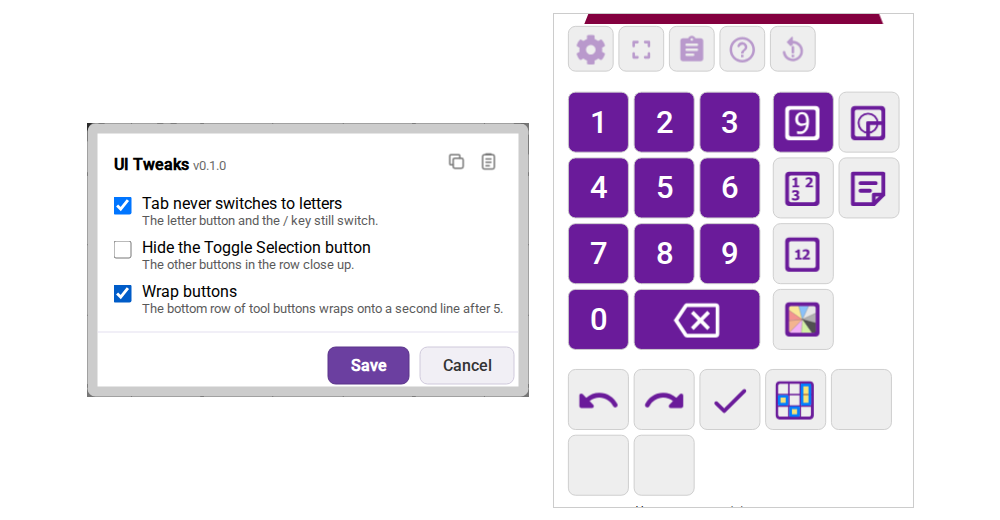
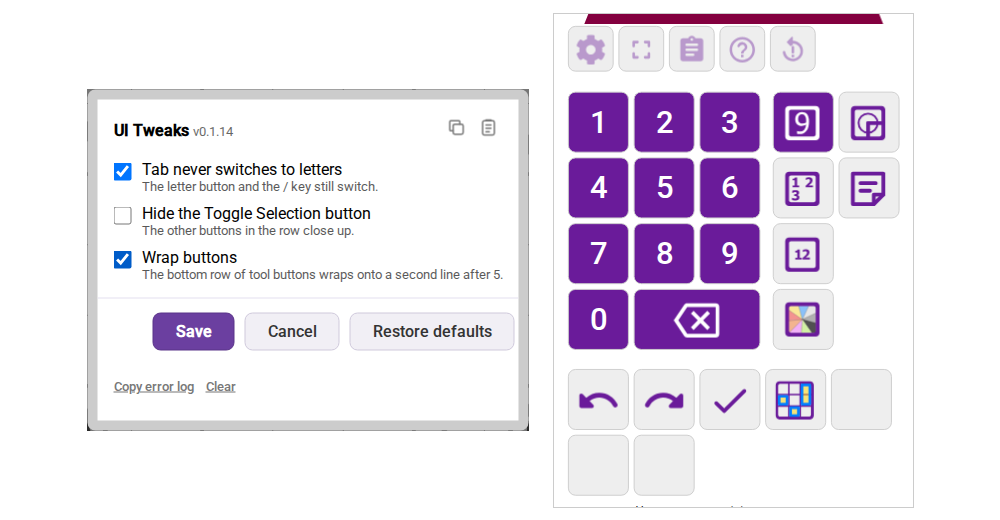
Restore defaults in UI Tweaks, Dark Page and Color by Digit dialogs (#809)
* Restore defaults in UI Tweaks, Dark Page and Color by Digit dialogs

Draft in each, so Cancel undoes it; Dark Page's Black button is replaced; Color by Digit asks first.

Closes #799

* Restore defaults review fixes: observable no-ask check, reuse preloadedState, reset the pulldowns' picks under test, README lines

Closes #799

---------

Changed region(s): [[0.062, 0.3077, 0.527, 0.8308], [0.062, 0.1538, 0.527, 0.3385]]

diff --git a/color-by-digit.user.js b/color-by-digit.user.js
@@ -1,7 +1,7 @@
 // ==UserScript==
 // @name         SudokuPad Color by Digit
 // @namespace    https://github.com/caneff/sudokupad-scripts
-// @version      0.25.39
+// @version      0.25.40
 // @description  Colors cells, or the digits and marks in them, by digit, with colors you give to groups of digits, and keeps the colors in step as you solve.
 // @match        https://sudokupad.app/*
 // @match        https://*.sudokupad.app/*
@@ -17,7 +17,7 @@
   'use strict'
 
   // GM_info is absent without Tampermonkey, so the script cannot read @version; keep this equal to it.
-  const VERSION = '0.25.39'
+  const VERSION = '0.25.40'
   // The groups saved before profiles existed. Read when no profiles are saved; never written or removed.
   const LEGACY_GROUPS_KEY = 'ColorByDigit_groups'
   // The profiles: { profiles: [{ name, groups }], active: index, digitActive?: index, useDigitColors?: false }.
@@ -288,6 +288,8 @@
   }
 
   const preloadProfiles = () => Object.keys(PRELOADS).map((name) => ({ name, groups: cloneGroups(PRELOADS[name]) }))
+  // The profiles of an install with nothing saved.
+  const preloadedState = () => makeState(preloadProfiles(), 0, undefined, true)
 
   const stateFromStored = (store) => load(store, { key: PROFILES_KEY, read: readProfiles }).value ?? stateFromLegacy(store.getData(LEGACY_GROUPS_KEY))
 
@@ -296,7 +298,7 @@
   function stateFromLegacy (legacyGroups) {
     const preloads = preloadProfiles()
     const legacy = normalizeGroups(legacyGroups)
-    if (!legacy) return { profiles: preloads, active: 0 }
+    if (!legacy) return preloadedState()
     const equal = preloads.findIndex((profile) => sameGroups(profile.groups, legacy))
     if (equal >= 0) return { profiles: preloads, active: equal }
     return { profiles: [{ name: CUSTOM_NAME, groups: legacy }, ...preloads], active: 0 }
@@ -1393,6 +1395,10 @@
       case 'brush': return { ...draft, brush: event.key }
       case 'page': return { ...draft, page: event.page }
       case 'clear': return withGroups([])
+      case 'restore': {
+        const preloaded = preloadedState()
+        return JSON.stringify(state) === JSON.stringify(preloaded) ? draft : showingProfile(draft, preloaded, 0)
+      }
       case 'press': return draft.paintKey === undefined ? draft : { ...draft, paintKey: undefined }
       case 'paint': {
         if (brush === null) return draft
@@ -2761,9 +2767,16 @@
           edit({ type: 'paste', ...(PROFILES_KEY in values ? { state: savedState } : {}), ...(MODE_KEY in values ? { mode: values[MODE_KEY] } : {}) })
           draw()
         }
-      }
+      },
+      extraButtons: [{ content: 'Restore defaults', role: 'restore', handler: () => restoreDefaults() }]
     })
     if (!box) return
+    // The draft takes the preloaded profiles, and Save or Cancel decides. Profiles of the user's own are lost on Save, so a draft that holds any asks first.
+    const restoreDefaults = () => {
+      if (JSON.stringify(draft.state.profiles) !== JSON.stringify(preloadedState().profiles) && !window.confirm('Restore the preloaded profiles? Your own profiles and edits are removed when you Save.')) return
+      edit({ type: 'restore' })
+      draw()
+    }
     const draw = () => {
       const { state, mode: draftMode, selected, pages, page, brush } = draft
       box.innerHTML = renderEditor({ groups: state.profiles[selected].groups, pages, page, brush, pulldownsHtml: renderPulldowns(state, draftMode), profilesHtml: renderProfiles(state, readColor, selected), unreadable })

diff --git a/dark-page.user.js b/dark-page.user.js
@@ -1,7 +1,7 @@
 // ==UserScript==
 // @name         SudokuPad Dark Page
 // @namespace    https://github.com/caneff/sudokupad-scripts
-// @version      0.7.16
+// @version      0.7.17
 // @description  Makes the page black around the puzzle, or another color chosen in a settings dialog, with dark control buttons on a dark page. Puzzle colors stay as intended, unlike SudokuPad's dark mode.
 // @match        https://sudokupad.app/*
 // @match        https://*.sudokupad.app/*
@@ -17,7 +17,7 @@
   'use strict'
 
   // GM_info is absent without Tampermonkey, so the script cannot read @version; keep this equal to it.
-  const VERSION = '0.7.16'
+  const VERSION = '0.7.17'
   const STYLE_ID = 'dark-page-style'
   const BOARD_ID = 'svgrenderer'
   // The page color and every other rule apply only while a board is on the page; a page with none keeps its own colors.
@@ -933,12 +933,11 @@
           picked = pageColor
           input.value = picked
         }
-      }
+      },
+      extraButtons: [{ content: 'Restore defaults', role: 'restore', handler: () => restoreDefaults() }]
     })
     if (!body) return
-    body.innerHTML = '<div style="margin:6px 0;display:flex;align-items:center;gap:8px">' +
-      `<input type="color" id="dark-page-input" value="${picked}">` +
-      '<button type="button" id="dark-page-reset">Black</button></div>'
+    body.innerHTML = `<div style="margin:6px 0"><input type="color" id="dark-page-input" value="${picked}"></div>`
     const input = document.getElementById('dark-page-input')
     const preview = () => { style.textContent = buildCss(picked) }
     // However the dialog closes (Save, Cancel, Escape), the page goes back to the saved color; a Save has already made it the saved one.
@@ -948,16 +947,14 @@
       style.textContent = buildCss(pageColor)
     })
     closed.observe(document.body, { childList: true, subtree: true })
-    const reset = document.getElementById('dark-page-reset')
     // `input` fires while the picker moves.
     input.addEventListener('input', () => { picked = input.value.toLowerCase(); preview() })
-    reset.addEventListener('click', (event) => {
-      event.preventDefault()
-      event.stopPropagation()
+    // The draft takes the default and the page previews it, and Save or Cancel decides.
+    function restoreDefaults () {
       picked = DEFAULT_COLOR
       input.value = DEFAULT_COLOR
       preview()
-    })
+    }
   }
 
   // At DOMContentLoaded Framework exists (before the app is ready). What it reads is the saved color, and the early

diff --git a/site/index.html b/site/index.html
@@ -152,7 +152,7 @@
     </div>
     <div class="row-text">
       <h2>Dark Page</h2>
-      <p>Turns the page black around the puzzle, or any color you pick, and darkens the control buttons when the color is dark. The text under the puzzle stays readable on any color. Puzzle colors stay as intended, unlike SudokuPad's dark mode.</p>
+      <p>Turns the page black around the puzzle, or any color you pick, and darkens the control buttons when the color is dark. The text under the puzzle stays readable on any color. Puzzle colors stay as intended, unlike SudokuPad's dark mode. Restore defaults in its settings dialog goes back to black.</p>
       <p class="actions"><a class="install" href="https://raw.githubusercontent.com/caneff/sudokupad-scripts/main/dark-page.user.js">Install<span class="visually-hidden"> Dark Page</span></a></p>
     </div>
   </section>
@@ -168,11 +168,11 @@
   </section>
   <section class="row">
     <div>
-      <div class="slide-frame"><img src="https://raw.githubusercontent.com/caneff/sudokupad-scripts/main/docs/research/ui-tweaks/ui-tweaks.png?v=f621fab" alt="The UI Tweaks settings dialog with its three options, beside SudokuPad's controls with the bottom row of buttons wrapped onto a second line after five" width="1000" height="520"></div>
+      <div class="slide-frame"><img src="https://raw.githubusercontent.com/caneff/sudokupad-scripts/main/docs/research/ui-tweaks/ui-tweaks.png?v=5645296" alt="The UI Tweaks settings dialog with its three options, beside SudokuPad's controls with the bottom row of buttons wrapped onto a second line after five" width="1000" height="520"></div>
     </div>
     <div class="row-text">
       <h2>UI Tweaks</h2>
-      <p>Small changes to SudokuPad's buttons, each switched on or off in a settings dialog that opens from SudokuPad's settings.</p>
+      <p>Small changes to SudokuPad's buttons, each switched on or off in a settings dialog that opens from SudokuPad's settings. Restore defaults there puts the choices back to how they start.</p>
       <ul>
         <li><b>Tab never switches to letters</b> (on at first): a stray Tab no longer switches the number pad to letters. The letter button and the / key still do.</li>
         <li><b>Hide the Toggle Selection button</b> (off at first): takes the button out of the bottom row, and the other buttons close up.</li>

diff --git a/test/site.test.js b/test/site.test.js
@@ -445,7 +445,7 @@ test(`${CBD} lists what the script adds, one item per feature`, () => {
   assert.deepEqual(leadIns(grid[1]), CBD_LEAD_INS)
 })
 
-test(`${CBD} shows the settings dialog as one annotated picture whose alt text names every label, with its intro and its two notes`, () => {
+test(`${CBD} shows the settings dialog as one annotated picture whose alt text names every label, with its intro and its three notes`, () => {
   const m = read(CBD).match(/<h2>The settings dialog<\/h2>([\s\S]*?)<h2>/)
   assert.ok(m, `site/${CBD} has no <h2>The settings dialog</h2>`)
   const found = imgs(m[1])
@@ -455,7 +455,7 @@ test(`${CBD} shows the settings dialog as one annotated picture whose alt text n
   for (const label of ['Settings icons', 'Pulldowns', 'Selected profile', 'Profile list', 'Palette and digits', 'Bottom row']) {
     assert.ok(alt.includes(label), `the picture's alt text does not name "${label}"`)
   }
-  assert.equal(plain(m[1]).trim(), 'Edit profiles, in the profile menu, opens it. A click on a digit already in the chosen color clears it. From the keyboard, Tab and the arrow keys move around the colors and the digit keys, and typing 0 to 9 paints that digit.')
+  assert.equal(plain(m[1]).trim(), 'Edit profiles, in the profile menu, opens it. A click on a digit already in the chosen color clears it. Restore defaults brings back the five preloaded profiles and the Cell and Digit pulldowns\' starting picks, after asking when it would remove your own profiles. Save keeps them and Cancel drops them. From the keyboard, Tab and the arrow keys move around the colors and the digit keys, and typing 0 to 9 paints that digit.')
 })
 
 test(`${CBD} good to know gives the undo behavior, the Multi-color caveat and where the button is`, () => {

diff --git a/site/color-by-digit.html b/site/color-by-digit.html
@@ -56,8 +56,9 @@
 
   <h2>The settings dialog</h2>
   <p class="prose">Edit profiles, in the profile menu, opens it.</p>
-  <div class="figure"><img src="https://raw.githubusercontent.com/caneff/sudokupad-scripts/main/docs/research/color-by-digit/color-by-digit-dialog-annotated.png?v=5e8d2ab" alt="The Color by Digit settings dialog with each part labelled on its left. Settings icons: copy or paste all settings. Pulldowns: mode, cell and digit profiles. Selected profile: rename it in its row. Profile list: click a profile to edit its colors. Palette and digits: click a color, then click or drag across digits to paint them. Bottom row: save or cancel the changes." width="966" height="514"></div>
+  <div class="figure"><img src="https://raw.githubusercontent.com/caneff/sudokupad-scripts/main/docs/research/color-by-digit/color-by-digit-dialog-annotated.png?v=69de5eb" alt="The Color by Digit settings dialog with each part labelled on its left. Settings icons: copy or paste all settings. Pulldowns: mode, cell and digit profiles. Selected profile: rename it in its row. Profile list: click a profile to edit its colors. Palette and digits: click a color, then click or drag across digits to paint them. Bottom row: save, cancel or restore the defaults." width="966" height="514"></div>
   <p class="prose">A click on a digit already in the chosen color clears it.</p>
+  <p class="prose">Restore defaults brings back the five preloaded profiles and the Cell and Digit pulldowns' starting picks, after asking when it would remove your own profiles. Save keeps them and Cancel drops them.</p>
   <p class="prose">From the keyboard, Tab and the arrow keys move around the colors and the digit keys, and typing 0 to 9 paints that digit.</p>
 
   <h2>Good to know</h2>

diff --git a/ui-tweaks.user.js b/ui-tweaks.user.js
@@ -1,7 +1,7 @@
 // ==UserScript==
 // @name         SudokuPad UI Tweaks
 // @namespace    https://github.com/caneff/sudokupad-scripts
-// @version      0.1.13
+// @version      0.1.14
 // @description  Small changes to SudokuPad's buttons, each switched on or off in a settings dialog: Tab never switches the number pad to letters, hide the Toggle Selection button, and wrap the bottom row of buttons after five.
 // @match        https://sudokupad.app/*
 // @match        https://*.sudokupad.app/*
@@ -20,7 +20,7 @@
   'use strict'
 
   // GM_info is absent without Tampermonkey, so the script cannot read @version; keep this equal to it.
-  const VERSION = '0.1.13'
+  const VERSION = '0.1.14'
   const STYLE_ID = 'ui-tweaks-style'
   // Each option's saved boolean is kept under its own key, which is also its name in Copy settings.
   const OPTIONS = [
@@ -834,9 +834,15 @@
             box(option.id).checked = next[option.id]
           })
         }
-      }
+      },
+      extraButtons: [{ content: 'Restore defaults', role: 'restore', handler: () => restoreDefaults() }]
     })
     if (!body) return
+    // The draft takes the defaults, and Save or Cancel decides.
+    const restoreDefaults = () => OPTIONS.forEach((option) => {
+      draft[option.id] = DEFAULT_OPTIONS[option.id]
+      box(option.id).checked = draft[option.id]
+    })
     body.innerHTML = OPTIONS.map(optionRow).join('')
     const box = (id) => body.querySelector(`input[data-option="${id}"]`)
     OPTIONS.forEach((option) => {

diff --git a/test/color-by-digit.test.js b/test/color-by-digit.test.js
@@ -1981,6 +1981,16 @@ test('reduceDraft delete: the row goes and the selection stays on the same profi
   assert.equal(reduceDraft(one, { type: 'delete', index: 0 }), one)
 })
 
+test('reduceDraft restore: the draft holds the preloaded profiles and the pulldowns\' starting picks with the first profile selected, the mode kept, and a draft already there is the same draft', () => {
+  const own = { ...dialogState(), digitActive: 1, useDigitColors: false }
+  const restored = run(opened(own, 'both'), { type: 'restore' })
+  assert.deepEqual(restored.state.profiles.map((p) => p.name), ['Low/5/High', 'Odd/Even', 'Entropic', 'Modular', 'Each digit'])
+  assert.deepEqual(restored.state.profiles.map((p) => p.groups), Object.values(PRELOADS))
+  assert.deepEqual({ selected: restored.selected, active: restored.state.active, digitActive: restored.state.digitActive, useDigitColors: usesDigitColors(restored.state), mode: restored.mode }, { selected: 0, active: 0, digitActive: undefined, useDigitColors: true, mode: 'both' })
+  assert.deepEqual(shownGroups(restored), PRELOADS['Low/5/High'])
+  assert.equal(reduceDraft(restored, { type: 'restore' }), restored)
+})
+
 test('reduceDraft move: a dragged row moves, the selection follows its profile, and a drop on its own place is the same draft', () => {
   const moved = run(opened(), { type: 'move', from: 0, to: 2 })
   assert.deepEqual(moved.state.profiles.map((p) => p.name), ['B', 'C', 'A'])

diff --git a/README.md b/README.md
@@ -35,6 +35,7 @@ In Cell mode, every cell holding a digit, and every empty cell whose center mark
 
 - **Profiles** are named lists of groups, one to six of them, with exactly one active. A fresh install has five preloads: Low/5/High (active), Odd/Even, Entropic (0-3, 4-6, 7-9), Modular (1/4/7, 2/5/8, 0/3/6/9) and Each digit (1 to 9 each on its own color, 0 in no group: 5 to 9 on their own keys of the first palette page, and 1 to 4 on purple, pink and brown from the second page and green from the third, so no digit's shade is black or grey like a given). An install with saved profiles gets Entropic and Modular added once, and Each digit once, each unless a profile already has the same groups or the six profiles are taken; delete one and it stays deleted. The button's icon shows the active profile as **chips**: a run of joined board cells, one per group color (the first three, so Each digit's is no wider than the others). The profile menu and the dialog's profile list show every profile as the same run, drawn as Cell mode draws it; the button draws it in the mode's look. Each cell carries the group's shown digit: with 0 left out, the lowest if every digit is below 5, the highest if every digit is above 5, else the middle (the lower middle on an even count), so Low/5/High shows 1, 5 and 9. A group of only 0 shows 0. With a separate digit profile the button's chips in Digit and Both can show other digits (see the Cell and Digit pulldowns). Groups you saved before profiles existed become the active profile: the preload they match, else a new first profile named Custom, with the five preloads beside it.
 - **The profile menu** opens from the arrow box on the button, a right click on it, or a hold on it. Pick a profile and it becomes active at once (with the Digit pulldown on a named profile, see below, each row instead ends in a Cell dot and a Digit dot, under the words Cell and Digit). In Cell and Both the old profile's group colors come off every cell and every cell that holds one group's digit (or has only that group's center marks) gets its new color, as one undo step; in Digit and Both the digits take their new shades. Edit profiles… opens the settings dialog, where you reorder profiles by dragging the handle, delete one with ×, and click a row to select it (a row's handle and × show while the pointer is over it, and always on the selected row): the selected row's name is a field you can rename it in (an empty box keeps the old name), and the right column edits its groups by painting. A page pulldown sits above one grid: the palette's swatches on the left and a pad of ten digit keys (1 to 9, 0 under 7) on the right, each digit key filled with its digit's color and blank when the digit is in no group. Click a swatch to make that color the brush (it starts as the color of the profile's lowest group), then click digit keys to paint them; a click on a digit already in the brush color clears it. You can also press on a digit and drag across others to paint them all, or start the drag on a digit already in the brush color to clear instead. A group is the digits that share a color, so a color with no digits is no group, and the groups run in order of their lowest digit, with 0 after 9. Clear all clears every digit. Groups saved with two entries in one color, which the old group editor allowed, are merged into one when the dialog opens. Selecting a row changes no color and sets no profile: the list is only for editing, and the three pulldowns at the top of the dialog do the picking. + New profile, under the list, adds a copy of the selected profile named after it with " copy", selects it and puts the cursor in its name; it is disabled at six profiles. Save applies every change at once; Cancel drops them.
+- **Restore defaults**, in the settings dialog's button row, brings back the five preloads and the Cell and Digit pulldowns' starting picks (the mode stays) as a draft that Cancel drops. It asks first when the profiles in the dialog include one of your own.
 - **The Cell and Digit pulldowns**, at the top of the settings dialog, pick the profile that colors the cells (Cell, the active profile) and the one that colors the digits (Digit). Digit starts on **Same as cell** on a fresh install and after an update: one profile colors cells and digits, and a menu pick moves both. Pick a profile by name in Digit and there are two picks from the one list, a cell profile for Cell and Both and a digit profile for Digit and Both, and the profile menu shows them as two columns of dots, Cell and Digit; a Cell dot recolors only the cells (one undo step), and a Digit dot only the digits. Picking a name in Digit while it says Same as cell starts the digit profile on the profile you pick; picking Same as cell again makes the digits take the cell profile. The button's chips show the cell profile's groups in Cell and Off and the digit profile's in Digit; in Both they show the digits that reach the most groups of the two profiles. Deleting the digit profile makes the digits follow the cell profile again (Same as cell).
 - **Digit: None** drops digit coloring altogether: a press steps Cell ↔ Off, the Mode pulldown offers only Cell and Off, the profile menu drops its Cell and Digit dots, and no digit is colored or circled. Picking None while the mode is Digit moves it to Off, in Both to Cell. Pick Same as cell or a profile again and the four modes and the digit profile come back; the mode stays where None moved it. All three pulldowns are drafts: Save applies them, Cancel drops them. Copy settings and Paste settings carry the choice and the digit profile; settings copied before them paste as coloring digits.
 - **The mode** is Cell, Digit, Both or Off, named by the word above the button's chips (CELL, DIGIT, BOTH, OFF, grey when Off), which draw the mode the way it colors the board: Cell fills the cells with their group colors and SudokuPad's blue digits; Digit leaves them white with the digits in their darker shades; Both fills them with the shaded digits; Off draws them white and grey. The button's tooltip names the mode too. A short press on the button steps it, Cell → Digit → Both → Off → Cell, and the settings dialog has the same choice as its Mode pulldown; Save applies a changed mode as a press would. A fresh install starts in Cell; an install that had the old auto mode keeps its look, Cell if auto mode was on and Off if it was off.
@@ -47,14 +48,14 @@ In Cell mode, every cell holding a digit, and every empty cell whose center mark
 
 ### Dark Page
 
-- Pick a color in the settings dialog, or use the Black button to go back. The choice is kept and applies without a reload.
+- Pick a color in the settings dialog, or use Restore defaults to go back to black. The choice is kept and applies without a reload.
 - The page's own text turns dark on a light color.
 - On a dark color, the control buttons go dark gray with light purple icons. On a light color, they stay as SudokuPad draws them.
 - Puzzle colors stay as intended, unlike SudokuPad's dark mode.
 
 ### UI Tweaks
 
-Its dialog has three options, each applied at once on Save and kept in the browser:
+Its dialog has three options, each applied at once on Save and kept in the browser. Restore defaults sets the boxes back to how they start, as a draft that Cancel drops:
 
 - **Tab never switches to letters** (on at first): SudokuPad binds both `/` and Tab to the letter toggle and saves the mode, so a stray Tab left the number pad on letters after a refresh. During play, Tab does what it did before, minus the toggle, and a held Tab is stopped too. The letter button and `/` still toggle, and Tab still moves focus in dialogs. It works whenever you turn the letter tool on in settings.
 - **Hide the Toggle Selection button** (off at first): hides SudokuPad's Select button in the bottom row, and the other buttons close up.
